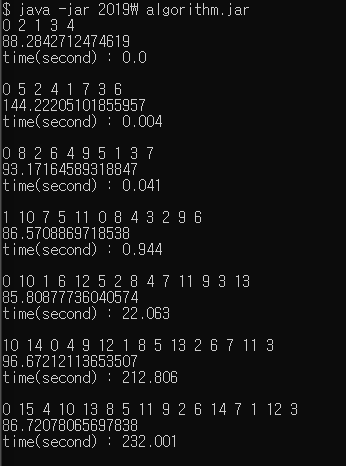
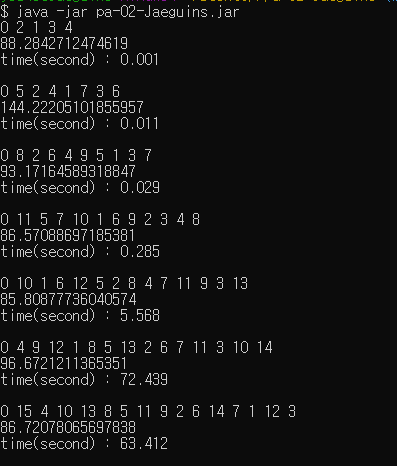
Memoization 추가
새 결과로 MD 갱신

diff --git a/src/MainClass.java b/src/MainClass.java
@@ -1,6 +1,7 @@
 import java.io.File;
 import java.io.FileNotFoundException;
 import java.util.Scanner;
+
 public class MainClass {
     int N;
     boolean solved=false;
@@ -8,6 +9,7 @@ public class MainClass {
     double minDist=Double.MAX_VALUE;
     int[] stack;
     int[] result;
+    double[][]memo;
     public static void main(String args[]){
         for(int T=0;T<=6;T++){
             MainClass main = new MainClass();
@@ -23,6 +25,7 @@ public class MainClass {
                 }
                 fileScanner.close();
                 long StartTime=System.currentTimeMillis();
+                main.memo=new double[main.N][main.N];
                 main.calc(0, 0);
                 long EndTime=System.currentTimeMillis();
                 for (int i = 0; i < main.N; i++)
@@ -33,12 +36,14 @@ public class MainClass {
             }
         }
     }
-    double getDist(int from[],int to[]){
-        if(from==null)
-            return 0;
-        double xDiff=from[0]-to[0];
-        double yDiff=from[1]-to[1];
-        return Math.sqrt(xDiff*xDiff+yDiff*yDiff);
+    double getDist(int from,int to){
+        if(memo[from][to]==0){
+            double xDiff=field[from][0]-field[to][0];
+            double yDiff=field[from][1]-field[to][1];
+            return memo[from][to]=Math.sqrt(xDiff*xDiff+yDiff*yDiff);
+        }else{
+            return memo[from][to];
+        }
     }
     void swap(int i,int j){
         int t=stack[i];
@@ -49,8 +54,8 @@ public class MainClass {
         if(acc>minDist)return;
         if(depth==N-1){
             double tDist=acc+
-                    getDist(field[stack[depth-1]],field[stack[depth]])+
-                    getDist(field[stack[0]],field[stack[depth]]);
+                    getDist(stack[(depth-1==-1?0:depth-1)],stack[depth])+
+                    getDist(stack[0],stack[depth]);
             if(tDist<minDist){
                 result=stack.clone();
                 minDist=tDist;
@@ -59,7 +64,7 @@ public class MainClass {
         }
         for (int i = depth; i < N; i++) {
             swap(i, depth);
-            calc(depth + 1,acc+getDist(depth>0?field[stack[depth-1]]:null,field[stack[depth]]));
+            calc(depth + 1,acc+getDist(depth>0?stack[depth-1]:0,stack[depth]));
             swap(i, depth);
         }
     }

diff --git a/README.md b/README.md
@@ -8,13 +8,13 @@
 	- [x] 컴파일 오류가 나지 않는다.
 	- [x] 실행 오류가 나지 않는다.
 	- [x] 실행 시간 30분 이내에 정답을 찾은 테스트 데이터의 번호를 모두 쓰시오.
-		- test 0 : 0.000초
-		- test 1 : 0.004초
-		- test 2 : 0.041초
-		- test 3 : 0.944초
-		- test 4 : 22.063초
-		- test 5 : 212.0초
-		- test 6 : 232.001초
+		- test 0 : 0.001초
+		- test 1 : 0.011초
+		- test 2 : 0.029초
+		- test 3 : 0.285초
+		- test 4 : 5.568초
+		- test 5 : 72.439초
+		- test 6 : 63.412초
 3. 기타 사항
 	root노드가 달라져 순서가 다르게 나오기도 하나 shift시 같음을 확인하였습니다.
 	
